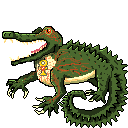
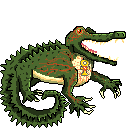
Krondis faces the right way; boss strike frames preload and keep their fit

diff --git a/js/08-render.js b/js/08-render.js
@@ -69,7 +69,7 @@ function render(){
     const ub=uBox(u);el.style.left=ub.l+'px';el.style.top=ub.t+'px';el.style.zIndex=unitZ(u);{const w=ub.w+'px';if(el.style.width!==w){el.style.width=el.style.height=w;el.firstChild.style.width=el.firstChild.style.height=w}}
     if(u.hp<=0&&!el.dataset.dead&&el.isConnected&&el.style.opacity!==''){el.dataset.dead=1;dieFx(el,boardEl,ub.l+ub.w/2,ub.t+ub.h/2,u,1)}else if(u.hp>0)delete el.dataset.dead;
     el.style.opacity=u.hp>0?1:0;
-    const src=sprite(u,'idle',mapWk(u)),img=el.firstChild;if(img.dataset.s!==src){img.src=src;img.dataset.s=src;img.style.transform='';img.style.transformOrigin='';if(u.sz===2||u.sz>1&&src.startsWith('data:'))fillBox(img,src,u.team==='e')}img.classList.toggle('hi',isHi(u.cls,u.sz));
+    const src=sprite(u,'idle',mapWk(u)),img=el.firstChild;if(img.dataset.s!==src){img.src=src;img.dataset.s=src;img.style.transform='';img.style.transformOrigin='';if(u.sz===2||u.sz>1&&src.startsWith('data:'))fillBox(img,src,u.team==='e');/* bosses: load and measure the strike frame now so the first attack shows it */if(u.sz>1){const s2=sprite(u,'strike',mapWk(u));if(!FILLS[s2])fillBox(new Image(),s2)}}img.classList.toggle('hi',isHi(u.cls,u.sz));
     {const bi=el.querySelector('.hpb i'),bb=barsOf(u);bi.style.width=(bb?bb.frac:u.hp/u.maxhp)*100+'%';
      if(bb){bi.style.background=BAR_COL[bb.n]||'';bi.parentNode.style.background=bb.n>1?BAR_COL[bb.n-1]:'';el.style.setProperty('--hf',BAR_HF[bb.n]||'');
       const was=+el.dataset.bars||u.bars;el.dataset.bars=bb.n;if(bb.n<was&&u.hp>0){pop(u,'The shell shatters!','dmg');sfx('broke');toast(`${u.name} cracks: ${bb.n} bar${bb.n===1?'':'s'} left`)}}}

diff --git a/js/09-battle-scene.js b/js/09-battle-scene.js
@@ -21,7 +21,7 @@ function flash(u){const el=uEls[u.id];if(!el)return;el.classList.add('flash');se
 function mapPose(u,name,t,wk){const el=uEls[u.id];if(!el)return;
   /* bosses (2+ tiles): just swap between the idle and strike frames, refitted to their box */
   if(u.sz>1){if(name!=='idle'&&name!=='swing'&&name!=='follow')return;const img=el.firstChild,src=sprite(u,name==='idle'?'idle':'strike',mapWk(u));if(img.dataset.s===src)return;
-    img.src=src;img.dataset.s=src;img.style.transform='';img.style.transformOrigin='';if(u.sz===2||src.startsWith('data:'))fillBox(img,src,u.team==='e');return}const img=el.firstChild;wk=wk||mapWk(u);let src;
+    img.src=src;img.dataset.s=src;if(u.sz===2||src.startsWith('data:'))fillBox(img,src,u.team==='e');return}/* keeps the current fit until the new frame's is measured, so it doesn't jump the first time */const img=el.firstChild;wk=wk||mapWk(u);let src;
   if(name==='idle')src=sprite(u,'idle',mapWk(u));
   else if(castPng(u,name))src=castPng(u,name);
   else if(isHi(u.cls,u.sz)){const k=['MP',u.cls,u.team,name,wk,JSON.stringify(u.look)].join('|');src=sprCache[k]||(sprCache[k]=hiArt(u.look,u.cls,u.team,wk,name,0,64))}
